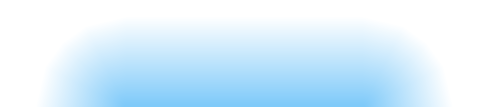
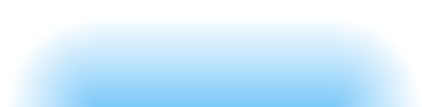
midway remote

Changed region(s): [[0.7393, 0.3645, 0.9858, 1.0], [0.0308, 0.5047, 0.1848, 1.0]]

diff --git a/public/stylesheets/style.css b/public/stylesheets/style.css
@@ -544,6 +544,7 @@ div.historyContainer .history .videoHistory {
 }
 .searchCellContainer .cellInfo .cellButtons .addToPlaylist-added {
   background: url("/images/room/checkbox.png") 50% 50% no-repeat;
+  cursor: default;
 }
 .searchCellContainer .cellInfo .cellButtons button.previewVideo {
   font-size: 9px;
@@ -682,7 +683,10 @@ button.search.active {
   height: 10px;
   width: 30px;
   background: url("/images/room/pullup.png") 50% 50% no-repeat;
-  margin-bottom: 3px;
+  position: absolute;
+  margin-top: 2px;
+  margin-left: 38px;
+  cursor: n-resize;
 }
 #remote-container #remote {
   height: 180px !important;
@@ -693,6 +697,7 @@ button.search.active {
   width: 104px;
   height: 74px;
   display: block;
+  cursor: n-resize;
 }
 #remote-container #remote .side-button-container {
   margin-top: 10px;
@@ -705,17 +710,20 @@ button.search.active {
 }
 #remote-container #remote #vol-buttons {
   float: left;
-  padding-left: 12px;
+  margin-left: 12px;
 }
 #remote-container #remote #vote-buttons {
   float: right;
-  padding-right: 12px;
+  margin-right: 12px;
 }
 #remote-container #remote .remote-bottom {
   display: block;
   width: 100px;
   height: 90px;
   text-align: center;
+}
+#remote-container button#remote-pullup:hover {
+  background-color: #34b7fe;
 }
 #vol-up,
 #vol-down {
@@ -732,6 +740,7 @@ button.search.active {
   border-radius: 20px;
   -webkit-border-radius: 20px;
   -moz-border-radius: 20px;
+  cursor: pointer;
 }
 #up-vote,
 #down-vote,
@@ -747,6 +756,7 @@ button.search.active {
   -webkit-border-radius: 20px;
   -moz-border-radius: 20px;
   color: #e5e5e5;
+  cursor: pointer;
 }
 .buttonContainer {
   margin: 3px;
@@ -1079,8 +1089,10 @@ background-color: green,
   margin-left: -1px;
 }
 .ui-autocomplete {
+  font-family: HelveticaNeue-Light, "Helvetica Neue Light", "Helvetica Neue", Helvetica, Arial, "Lucida Grande", sans-serif;
   list-style-type: none;
   width: 250px;
+  margin-top: 10px;
   background-color: #e7e7e7;
 }
 .ui-autocomplete li.ui-menu-item {
@@ -1175,7 +1187,7 @@ background-color: green,
 }
 #tvglowimg {
   margin-top: 164px;
-  margin-left: 98px;
+  margin-left: 120px;
   position: absolute;
 }
 #modalBG {

diff --git a/public/javascripts/gates.js b/public/javascripts/gates.js
@@ -1012,6 +1012,12 @@ $(function() {
 	 $("#become-dj").hide();
 	 $("#nowPlayingFull").hide();
 	 $("#fullscreen").bind("click", this.fullscreenToggle);
+	 $(".remote-top").bind("click", this.pullRemoteUp);
+	 $("#remote-pullup").bind("click", this.pullRemoteUp);
+	 $("#remote-pullup").tipsy({
+	    gravity: 's',
+	    title: function() { return "Pull Up"; }
+	   });
 	 $("#avatarWrapper_VAL").css("margin-left", '410px');
 	 $("#avatarWrapper_VAL").hide();
    $("#up-vote").bind("click", SocketManagerModel.voteUp);
@@ -1031,6 +1037,12 @@ $(function() {
    this.chats = [];
 	 this.full = false;
   },
+
+	pullRemoteUp : function (e) {
+		if(e.srcElement.localName != "button" || e.srcElement.id == "remote-pullup")	{
+				$("#remote-container").animate({"margin-top": 89}, 400);
+			}
+	},
 
 	fullscreenToggle: function() {
 		this.full = !this.full;
